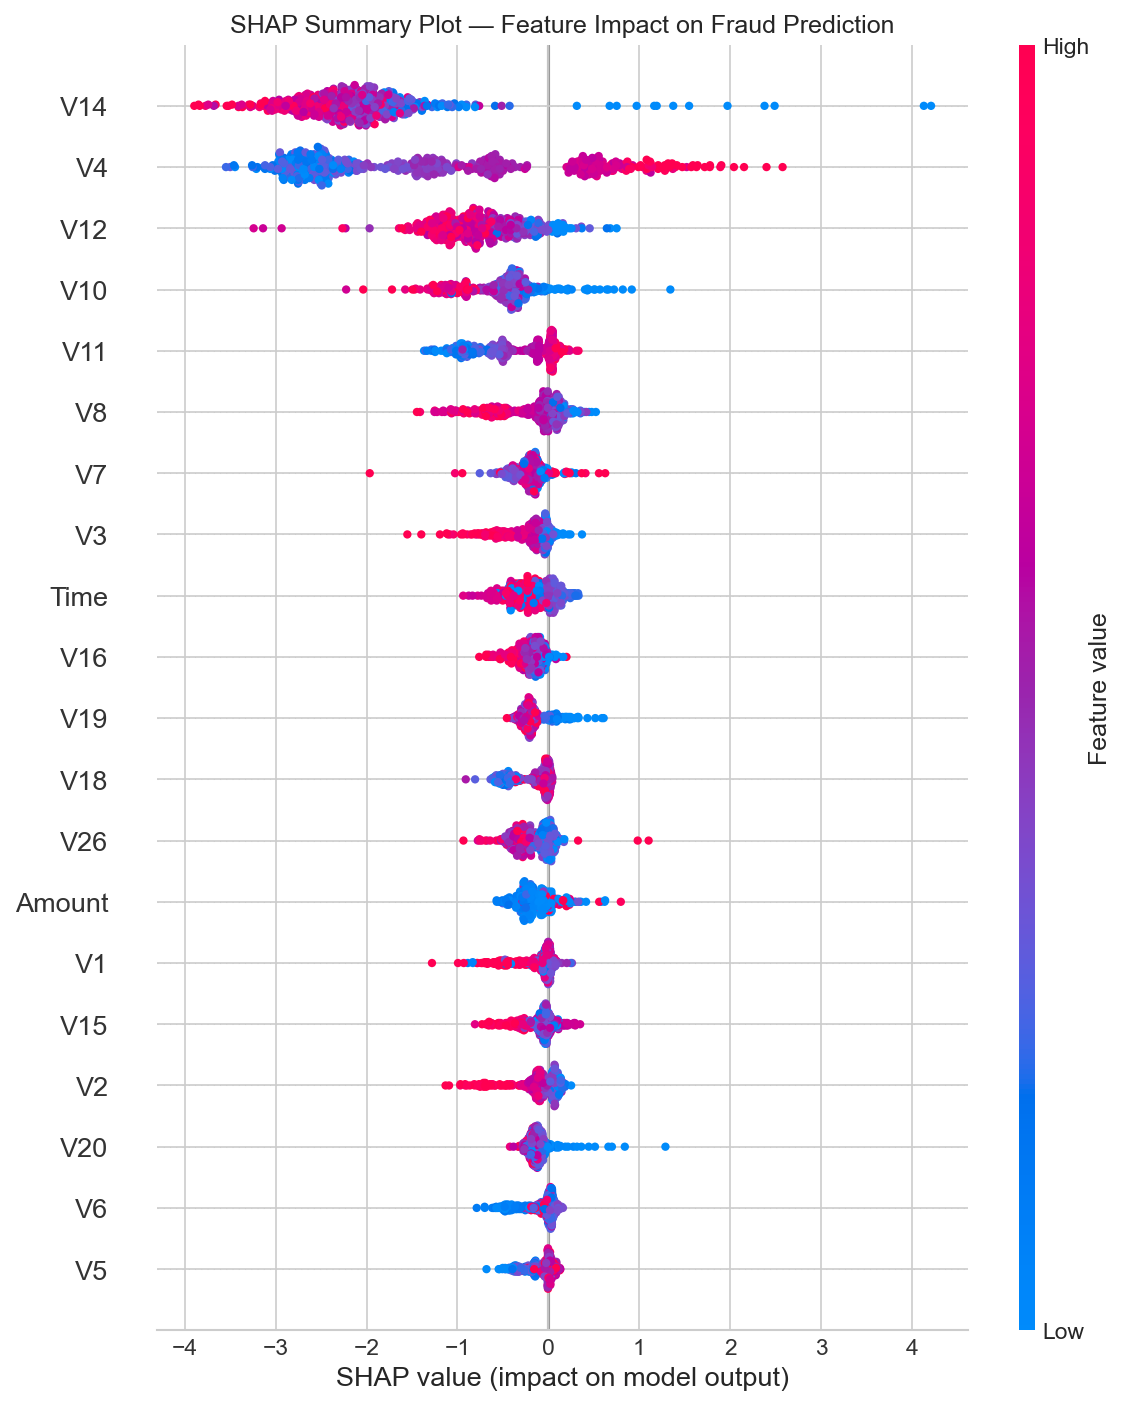
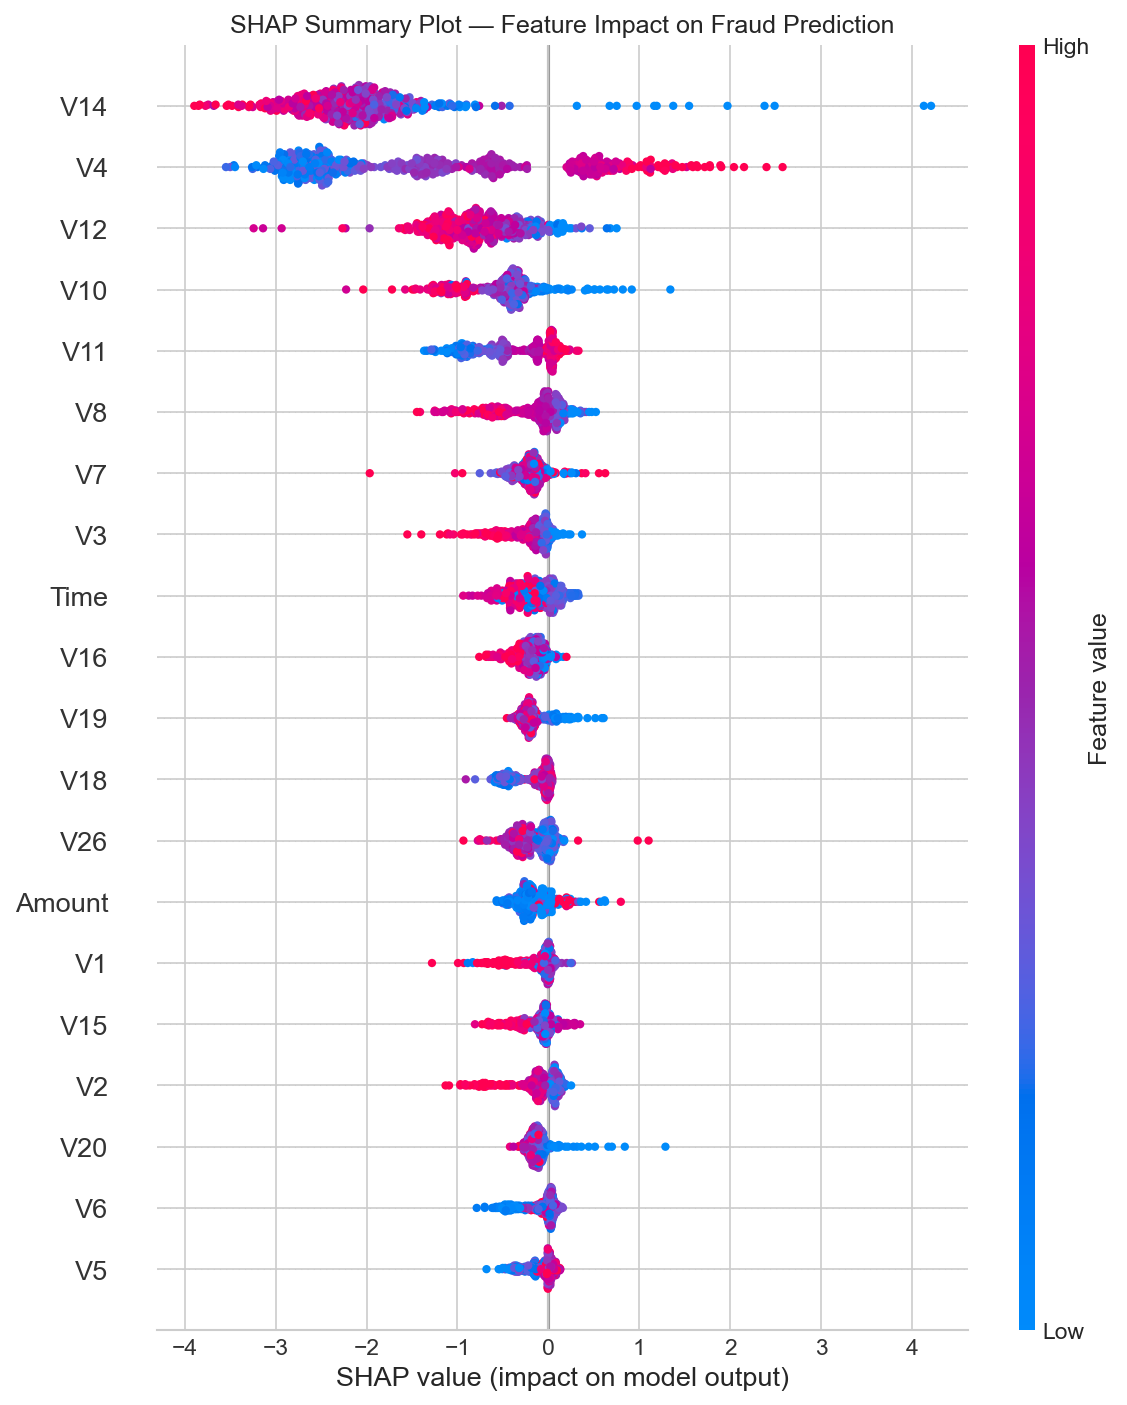
modifies app

diff --git a/app.py b/app.py
@@ -100,24 +100,30 @@ st.subheader("🎲 Load a Sample Transaction")
 if df is not None:
     col_a, col_b, col_c = st.columns(3)
 
+    def _apply_tx(values: dict, label):
+        """Write transaction values into both current_tx and each widget's key."""
+        st.session_state.current_tx = values
+        st.session_state.tx_label   = label
+        st.session_state['inp_amount'] = values['Amount']
+        st.session_state['inp_time']   = values['Time']
+        for i in range(1, 29):
+            st.session_state[f'v{i}'] = values[f'V{i}']
+
     with col_a:
         if st.button("🚨 Load Random FRAUD Transaction", use_container_width=True):
             fraud_df = df[df['Class'] == 1]
             row = fraud_df.iloc[np.random.randint(0, len(fraud_df))]
-            st.session_state.current_tx = {col: float(row[col]) for col in FEATURE_COLS}
-            st.session_state.tx_label = "fraud"
+            _apply_tx({col: float(row[col]) for col in FEATURE_COLS}, "fraud")
 
     with col_b:
         if st.button("✅ Load Random LEGITIMATE Transaction", use_container_width=True):
             legit_df = df[df['Class'] == 0]
             row = legit_df.iloc[np.random.randint(0, len(legit_df))]
-            st.session_state.current_tx = {col: float(row[col]) for col in FEATURE_COLS}
-            st.session_state.tx_label = "legit"
+            _apply_tx({col: float(row[col]) for col in FEATURE_COLS}, "legit")
 
     with col_c:
         if st.button("🔄 Reset to Zeros", use_container_width=True):
-            st.session_state.current_tx = {col: 0.0 for col in FEATURE_COLS}
-            st.session_state.tx_label   = None
+            _apply_tx({col: 0.0 for col in FEATURE_COLS}, None)
 
     if st.session_state.tx_label == "fraud":
         st.info("🚨 A known **fraudulent** transaction has been loaded. See if the model catches it!")
@@ -136,8 +142,8 @@ tx = st.session_state.current_tx
 
 col1, col2, col3 = st.columns(3)
 with col1:
-    amount = st.number_input("Amount (€)",  value=tx['Amount'], format="%.4f")
-    time   = st.number_input("Time (secs)", value=tx['Time'],   format="%.4f")
+    amount = st.number_input("Amount (€)",  value=tx['Amount'], format="%.4f", key="inp_amount")
+    time   = st.number_input("Time (secs)", value=tx['Time'],   format="%.4f", key="inp_time")
 
 with col2:
     st.markdown("**PCA Features V1–V14**")
